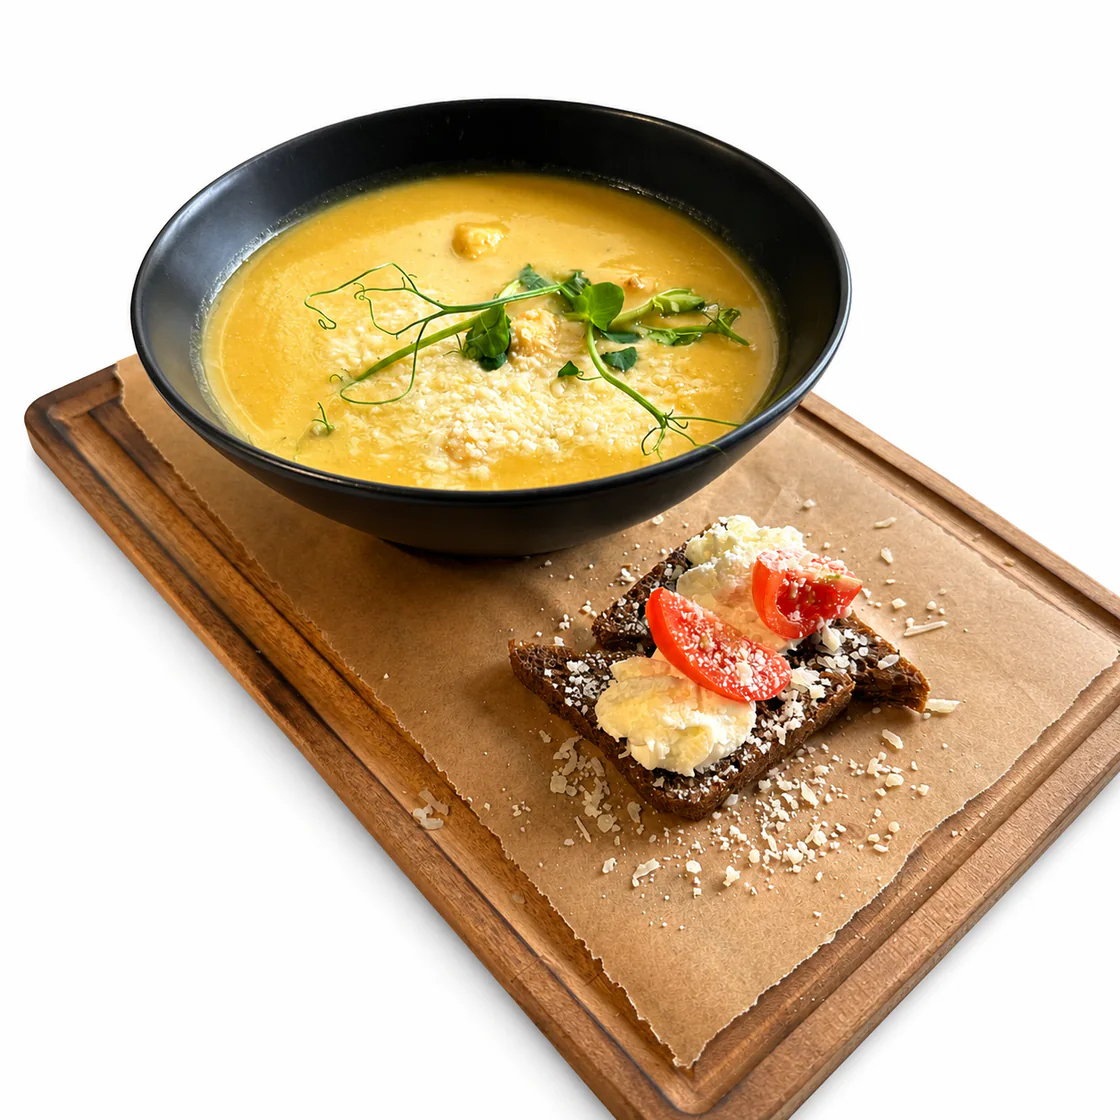
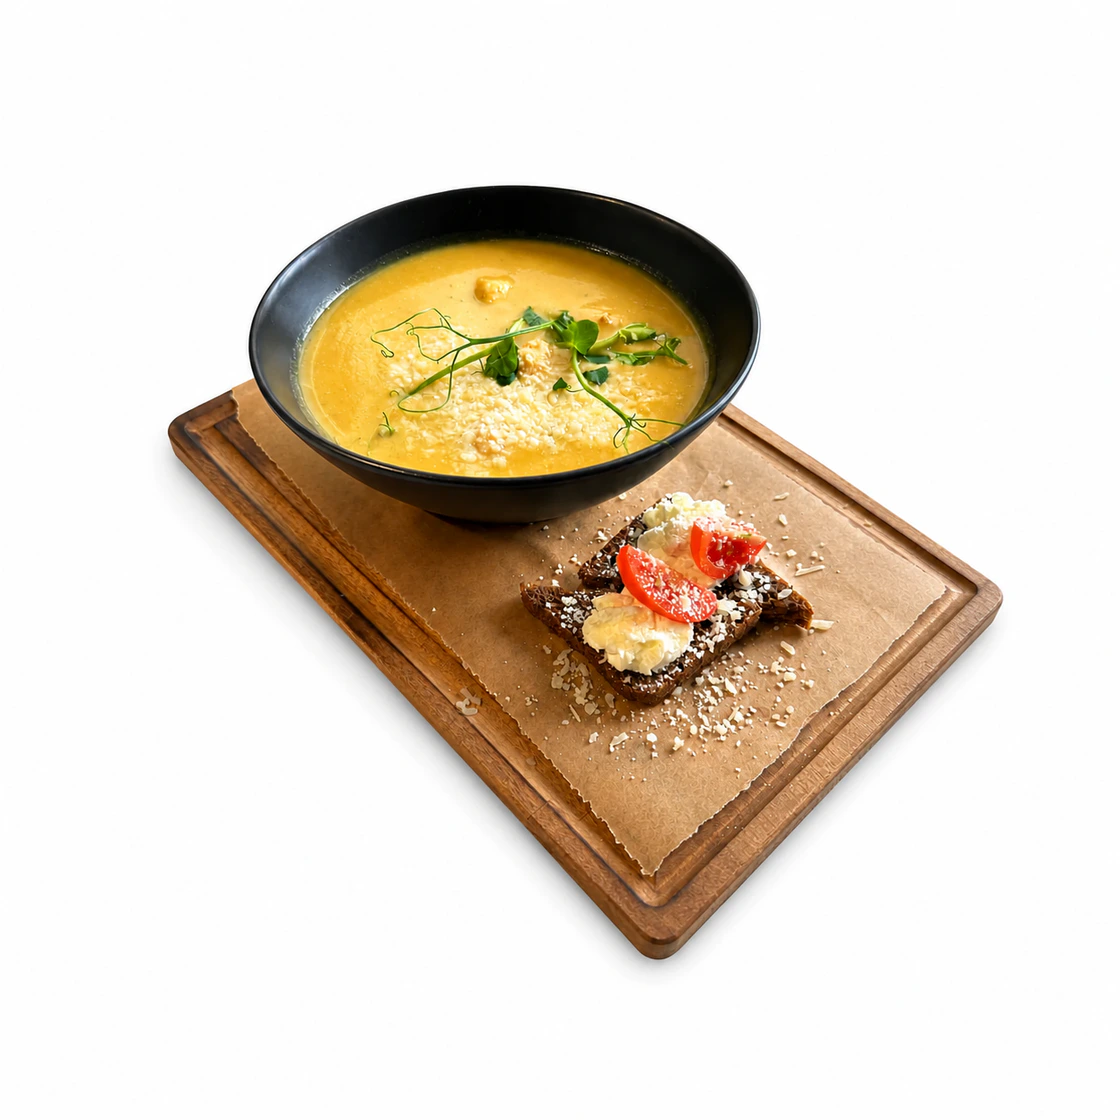
Hide sauce items from public menu

diff --git a/server/catalog.js b/server/catalog.js
@@ -4,7 +4,7 @@ import fs from "node:fs/promises";
 import path from "node:path";
 import sharp from "sharp";
 import { pool } from "./db.js";
-import { MENU, MENU_CATEGORIES } from "../src/data/menu.js";
+import { MENU, MENU_CATEGORIES, isPublicMenuCategory } from "../src/data/menu.js";
 
 export const MAX_CATALOG_UPLOAD_BYTES = 14 * 1024 * 1024;
 export const MAX_CATALOG_VIDEO_UPLOAD_BYTES = 120 * 1024 * 1024;
@@ -569,10 +569,15 @@ async function readCatalog({ includePrivate = false } = {}) {
     pool.query(productQuery)
   ]);
 
-  const baseProducts = productResult.rows.map((row) => productRowToPublic(row, {}, { includePrivate }));
+  const publicProductRows = includePrivate
+    ? productResult.rows
+    : productResult.rows.filter((row) => isPublicMenuCategory(row.category_id));
+  const baseProducts = publicProductRows.map((row) => productRowToPublic(row, {}, { includePrivate }));
   const productById = Object.fromEntries(baseProducts.map((product) => [product.id, product]));
-  const products = productResult.rows.map((row) => productRowToPublic(row, productById, { includePrivate }));
-  const categories = categoryResult.rows.map((row) => categoryRowToPublic(row, { includePrivate }));
+  const products = publicProductRows.map((row) => productRowToPublic(row, productById, { includePrivate }));
+  const categories = categoryResult.rows
+    .map((row) => categoryRowToPublic(row, { includePrivate }))
+    .filter((category) => includePrivate || isPublicMenuCategory(category.id));
   const visibleCategoryIds = new Set(products.map((product) => product.category || product.categoryId));
 
   return {

diff --git a/src/components/site/siteData.js b/src/components/site/siteData.js
@@ -1,6 +1,6 @@
 import { Baby, CakeSlice, CalendarCheck, ChefHat, Coffee, Pizza, Salad, ShoppingBag, Users } from "lucide-react";
 import { RESTAURANT } from "../../data/config";
-import { MENU, MENU_CATEGORIES } from "../../data/menu";
+import { MENU, MENU_CATEGORIES, isPublicMenuCategory } from "../../data/menu";
 
 export const DELIVERY_URL = "/checkout";
 export const PARTNERS_URL = "/partners";
@@ -30,12 +30,14 @@ export const headerLinks = [
   { label: "Акции", href: "#menu" }
 ];
 
-export const categoryTabs = MENU_CATEGORIES.map((category) => ({
-  id: category.id,
-  label: category.shortTitle || category.title,
-  title: category.title,
-  description: category.description
-}));
+export const categoryTabs = MENU_CATEGORIES
+  .filter((category) => isPublicMenuCategory(category.id))
+  .map((category) => ({
+    id: category.id,
+    label: category.shortTitle || category.title,
+    title: category.title,
+    description: category.description
+  }));
 
 const comboCategory = {
   id: "combo",

diff --git a/src/components/site/SiteMenuSection.jsx b/src/components/site/SiteMenuSection.jsx
@@ -3,6 +3,7 @@ import { ChevronDown, ShoppingBag } from "lucide-react";
 
 import { formatPrice, getProductOldPrice } from "../../utils/price";
 import { apiPath } from "../../utils/api";
+import { isPublicMenuCategory } from "../../data/menu";
 import { SiteProductCard } from "./SiteProductCard";
 import {
   menuByCategory,
@@ -42,7 +43,7 @@ function buildCatalogView(catalog) {
   }, {});
 
   const menuGroups = categories
-    .filter((category) => category.id !== "combo")
+    .filter((category) => category.id !== "combo" && isPublicMenuCategory(category.id))
     .map((category) => ({
       ...category,
       label: category.shortTitle || category.label || category.title,

diff --git a/src/data/config.js b/src/data/config.js
@@ -1,4 +1,4 @@
-import { MENU_CATEGORIES } from "./menu";
+import { MENU_CATEGORIES, isPublicMenuCategory } from "./menu";
 
 export const RESTAURANT = {
   name: "Вместе Вкуснее",
@@ -64,10 +64,12 @@ export const STORIES = [
 
 export const CATEGORY_LIST = [
   { id: "featured", title: "Для вас" },
-  ...MENU_CATEGORIES.map((category) => ({
-    id: category.id,
-    title: category.shortTitle || category.title
-  }))
+  ...MENU_CATEGORIES
+    .filter((category) => isPublicMenuCategory(category.id))
+    .map((category) => ({
+      id: category.id,
+      title: category.shortTitle || category.title
+    }))
 ];
 
 export const PROMO_CODES = {

diff --git a/src/data/menu.js b/src/data/menu.js
@@ -119,6 +119,12 @@ export const MENU_CATEGORIES = [
   }
 ];
 
+const PUBLIC_HIDDEN_MENU_CATEGORY_IDS = new Set(["breakfast-addon"]);
+
+export function isPublicMenuCategory(categoryId) {
+  return !PUBLIC_HIDDEN_MENU_CATEGORY_IDS.has(String(categoryId || ""));
+}
+
 const categoryMap = Object.fromEntries(MENU_CATEGORIES.map((category) => [category.id, category]));
 
 export const PIZZA_ADDONS = [
